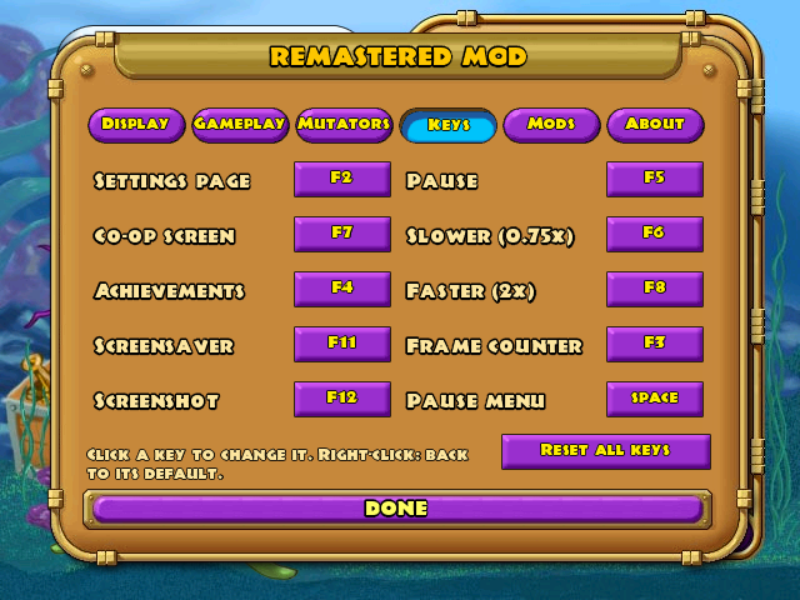
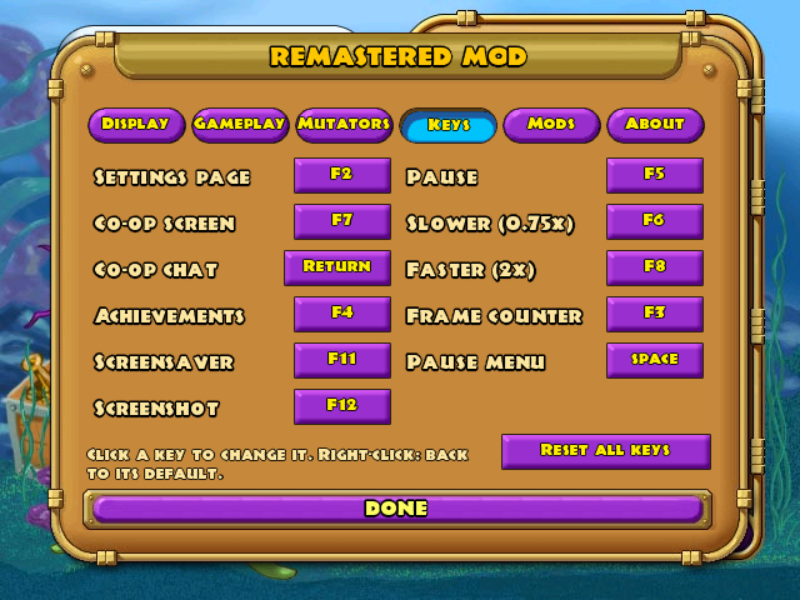
0.2.0: Keys tab (every key, defaults, the pause dialog's key), window choices with the game's cursor, co-op chat in the lobby with fading lines, screensaver in a window, Steam save folder, one lobby listing per account; server modules cleanup.lua and chatlog.lua; docs and screenshots

Changed region(s): [[0.3438, 0.24, 0.9062, 0.72], [0.0938, 0.36, 0.3125, 0.72], [0.0938, 0.27, 0.3125, 0.33]]

diff --git a/mods/coop/coop.cpp b/mods/coop/coop.cpp
@@ -101,6 +101,7 @@ static int startShells = -1;                  // a guest: the shells of the host
 struct ChatLine { std::string text; unsigned color; DWORD at; };
 static std::deque<ChatLine> chat;
 static bool chatting;
+static bool screen, editing;   // the co-op screen is open; one of its text boxes is being typed in
 static std::string chatBuf;
 struct Mark { int slot, x, y; DWORD at; };
 static std::vector<Mark> marks;
@@ -840,17 +841,24 @@ static bool LocalKey(int vk) { return vk == api->config_int("screenshot", "key",
 
 static int InputFilter(unsigned msg, unsigned wp, long lp)
 {
-    if (state != Playing) return 0;
-    // chat: Enter opens a line, Enter sends it, Esc drops it; while typing, keys don't go to the game
+    if (state != Playing && !(state == Lobby && screen && !editing)) return 0;   // chat works in the lobby too
+    // chat: the chat key (Enter; the Keys tab) opens a line, Enter sends it, Esc drops it; while typing, keys don't go
+    // to the game
+    static bool skipChar;   // the character the chat key itself types (a letter key) isn't part of the line
     if (chatting)
     {
+        if (msg == WM_CHAR && skipChar) { skipChar = false; return 1; }
         if (msg == WM_KEYDOWN && wp == VK_RETURN) { chatting = false; SendChat(chatBuf); chatBuf.clear(); api->redraw(); }
         else if (msg == WM_KEYDOWN && wp == VK_ESCAPE) { chatting = false; chatBuf.clear(); api->redraw(); }
         else if (msg == WM_KEYDOWN && wp == VK_BACK) { if (!chatBuf.empty()) chatBuf.pop_back(); api->redraw(); }
         else if (msg == WM_CHAR && wp >= 32 && wp < 127 && chatBuf.size() < 80) { chatBuf += (char)wp; api->redraw(); }
         if (msg >= WM_KEYFIRST && msg <= WM_KEYLAST) return 1;
     }
-    else if (msg == WM_KEYDOWN && wp == VK_RETURN) { chatting = true; chatBuf.clear(); api->redraw(); return 1; }
+    else if (msg == WM_KEYDOWN && (int)wp == api->config_int("coop", "chat_key", VK_RETURN) && wp)
+    {
+        chatting = true; chatBuf.clear(); skipChar = wp != VK_RETURN; api->redraw(); return 1;
+    }
+    if (state != Playing) return 0;   // the rest is the game's input, in a game
     // a ping: middle click shows a ring where you point, for everyone (display only)
     if (msg == WM_MBUTTONDOWN)
     {
@@ -1546,7 +1554,6 @@ extern "C" __declspec(dllexport) int CoopPlaying() { return state == Playing ? 1
 
 // ---- the lobby screen ------------------------------------------------------------------------------------------------------
 static const int DialogId = 0x4e, DX = 30, DY = 20, DW = 580, DH = 440, CX = DX + 40, CW = DW - 80;
-static bool screen, editing;
 static std::string* editField;   // the box being typed into (the address, or a server setting)
 // the server settings view (Online tab): edited here, saved on Test and Done
 static bool serverView, srvTls;
@@ -1776,6 +1783,36 @@ static int Key(int vk, int down)
     return 1;
 }
 
+// chat lines: each shows for 10 s and fades out over the last 2 (all of them while typing); in a game at the bottom left,
+// newest at the bottom, in the lobby at the top (its panel fills the bottom), newest at the top
+static void DrawChat(void* g, bool top)
+{
+    void* f10 = ui::Font(FONT_JUNGLEFEVER10OUTLINE);
+    DWORD now = GetTickCount();
+    int y = top ? 18 : 446, step = top ? 20 : -20;
+    bool visible = false;
+    if (chatting)
+    {
+        std::string t = "Say: " + chatBuf + ((now / 400) % 2 ? "_" : "");
+        api->fill_rect(g, 6, y - 14, api->text_width_font(f10, t.c_str()) + 10, 18, 0xb0000000);
+        api->draw_text_font(g, f10, t.c_str(), 11, y, 0xffffffff);
+        y += step;
+        visible = true;
+    }
+    for (int i = (int)chat.size() - 1; i >= 0; i--)
+    {
+        DWORD age = now - chat[i].at;
+        if (age > 10000 && !chatting) continue;
+        unsigned a = chatting || age < 8000 ? 255 : (unsigned)(255 * (10000 - age) / 2000);
+        unsigned box = ((0x90 * a / 255) << 24), text = (a << 24) | (chat[i].color & 0xffffff);
+        api->fill_rect(g, 6, y - 14, api->text_width_font(f10, chat[i].text.c_str()) + 10, 18, box);
+        api->draw_text_font(g, f10, chat[i].text.c_str(), 11, y, text);
+        y += step;
+        visible = true;
+    }
+    if (visible && top) api->redraw();   // the lobby only repaints when something changes: keep the fade going
+}
+
 static void Overlay(void* g)
 {
     void* f12 = ui::Font(FONT_JUNGLEFEVER12OUTLINE), *f10 = ui::Font(FONT_JUNGLEFEVER10OUTLINE);
@@ -1842,22 +1879,7 @@ static void Overlay(void* g)
                     const char* t = rescueFish == f ? "SOS 1/2" : "SOS";
                     api->draw_text_font(g, f10, t, cx - api->text_width_font(f10, t) / 2, cy, (now / 250) % 2 ? 0xffff4040 : 0xffffd0d0);
                 }
-        // chat
-        int y = 446;
-        if (chatting)
-        {
-            std::string t = "Say: " + chatBuf + ((now / 400) % 2 ? "_" : "");
-            api->fill_rect(g, 6, y - 14, api->text_width_font(f10, t.c_str()) + 10, 18, 0xb0000000);
-            api->draw_text_font(g, f10, t.c_str(), 11, y, 0xffffffff);
-            y -= 20;
-        }
-        for (int i = (int)chat.size() - 1; i >= 0; i--)
-        {
-            if (now - chat[i].at > 10000 && !chatting) continue;
-            api->fill_rect(g, 6, y - 14, api->text_width_font(f10, chat[i].text.c_str()) + 10, 18, 0x90000000);
-            api->draw_text_font(g, f10, chat[i].text.c_str(), 11, y, chat[i].color);
-            y -= 20;
-        }
+        DrawChat(g, false);
         return;
     }
     if (reopenScreen && state == Lobby && ui::OnMainMenu(api) && ui::DialogCount(api) == 0) { reopenScreen = false; OpenScreen(); }
@@ -1973,6 +1995,7 @@ static void Overlay(void* g)
         else ui::FitText(api, g, f10, "The host picks the game and starts it.", CX, DY + 314, CW, ui::Cream);
     }
     ui::FitText(api, g, f10, status, CX, DY + DH - 82, CW, ui::White);
+    if (state == Lobby) { api->set_input_filter(InputFilter); DrawChat(g, true); }   // the filter takes the chat key in the lobby too
     ui::DrawTooltip(api, g);
 }
 

diff --git a/mods/settings/settings.cpp b/mods/settings/settings.cpp
@@ -86,6 +86,7 @@ static void Build()
     tabs[KeysTab] = {
         { "Settings page", "settings", "open_key", "Opens these settings, anywhere.", {}, "113", false },
         { "Co-op screen", "coop", "open_key", "Opens the co-op screen on the main menu.", {}, "118", false },
+        { "Co-op chat", "coop", "chat_key", "In a co-op game or its lobby: opens a chat line (Enter sends it, Esc drops it). Only the players in that game see it.", {}, "13", false },
         { "Achievements", "achievements", "open_key", "Opens the list of achievements.", {}, "115", false },
         { "Screensaver", "screensaver", "key", "Starts the screensaver on the main menu.", {}, "122", false },
         { "Screenshot", "screenshot", "key", "Saves a screenshot in the game folder's screenshots folder.", {}, "123", false },
@@ -130,6 +131,11 @@ static RECT RowRect(int t, int i)
     {
         int rows = ModRows(), h = ModRowH(), w = CW / ModCols(), x = CX + (i / rows) * w, y = TabY + 36 + (i % rows) * h;
         return { x, y, x + w - 6, y + h };
+    }
+    if (t == KeysTab)   // two columns of six, a little shorter (the reset button goes under them)
+    {
+        int w = CW / 2, x = CX + (i / 6) * w, y = TabY + 36 + (i % 6) * 37;
+        return { x, y, x + w - 6, y + 37 };
     }
     int cols = Columns(t), col = i / 5, row = i % 5;
     if (cols == 1) { col = 0; row = i; }
@@ -367,7 +373,7 @@ static void DrawSettings(void* g)
         if (over) help = it.help;
         std::string v = Get(it);
         int rh = r.bottom - r.top;
-        int tx = r.left + 6, labelY = tab == ModsTab ? r.top + (rh >= 40 ? 22 : rh / 2 - 1) : r.top + 28, right = r.right;
+        int tx = r.left + 6, labelY = tab == ModsTab ? r.top + (rh >= 40 ? 22 : rh / 2 - 1) : tab == KeysTab ? r.top + 25 : r.top + 28, right = r.right;
         if (tab == KeysTab)
         {
             int vk = atoi(v.c_str());
@@ -376,6 +382,7 @@ static void DrawSettings(void* g)
                 if (j != i && vk && atoi(Get(tabs[KeysTab][j]).c_str()) == vk) clash = true;
             std::string shown = capturing == (int)i ? "Press a key..." : ui::KeyName(vk);
             RECT vr = ValueRect(r, shown.c_str());
+            OffsetRect(&vr, 0, -3);   // the Keys tab's rows are shorter
             ui::Button(api, g, vr, shown.c_str(), ui::Look::Center, true, capturing == (int)i);
             if (clash && capturing != (int)i) { api->draw_text_font(g, f10, "!", vr.left - 12, vr.top + 19, 0xffff6060); if (over) help = "This key is also used by another row: pick a different one."; }
             right = vr.left - 14;

diff --git a/include/version.h b/include/version.h
@@ -2,12 +2,27 @@
 // release page). Newest first, short lines (about 50 characters);
 // bump REMOD_VERSION with each release (DEVELOPING.md, Releasing).
 #pragma once
-#define REMOD_VERSION "0.1.0"
+#define REMOD_VERSION "0.2.0"
 #define REMOD_WIDEN2(x) L##x
 #define REMOD_WIDEN(x) REMOD_WIDEN2(x)
 #define REMOD_VERSION_W REMOD_WIDEN(REMOD_VERSION)
 
 static const struct { const char* version; const char* lines[16]; } RemodChangelog[] = {
+    { "0.2.0", {
+        "Keys tab: change every key, reset to defaults.",
+        "  Space's pause dialog can move to another key.",
+        "Window: 640x480 by default (also on Steam),",
+        "  or large, borderless or fullscreen, with",
+        "  the game's own cursor at the right size.",
+        "Co-op chat in the lobby too; lines fade out.",
+        "Screensaver runs in a window: no more closing",
+        "  at once on Linux, the game waits and returns.",
+        "Steam: saves backed up from the right folder,",
+        "  achievements and records kept beside them.",
+        "Co-op: no more \"too many lobbies\" errors.",
+        "The start-up banner no longer covers",
+        "  \"Click here to play!\".",
+        nullptr } },
     { "0.1.0", {
         "First release.",
         "Remastered page on the main menu; settings: F2.",

diff --git a/README.md b/README.md
@@ -59,7 +59,7 @@ Step by step for Windows, Linux and Steam Deck: **[docs/INSTALL.md](docs/INSTALL
 | **continues** | When all your fish die, spend shells to get two guppies and keep going: 500 shells, then 1,000, 1,500... until you return to the main menu. Only offered when you have the shells | none |
 | **accessibility** | A red **!** over hungry fish, and each coin's value under it (no need to tell silver, gold and gems apart by colour) | none |
 | **achievements** | 31 achievements (coins, aliens, levels, pets, modes...) with shell rewards paid on the main menu; a banner when one unlocks; the list from **Achievements** on the Remastered page. Progress is saved per profile next to your saves | **F4** list |
-| **coop** | Co-op for 2-4 players over the network: **Co-op** on the Remastered page (or F7), one player hosts and the others join: **Online** through the mod's public server (a listed game, or a private one joined by its room code; no ports to open, nothing to set up), through **Steam**, by address, or through **your own server** (docs/SERVER.md). Everyone plays the host's profile (your own saves are never touched; shells you earn come home with you). Roles (Feeder, Gunner, Collector, Shopper), chat (Enter), pings (middle click), rescue a starving fish together, tougher tanks for more players (host's choice), an avatar on your pointer (a pet or fish portrait), **split money** (host's choice: everyone has their own money; coins pay whoever clicked them), join a game that has already started (while there's room), and **Versus** (host's choice: the first player to join steers the aliens with the pointer, click to dash, and tries to eat every fish). The host is in charge: only the host pauses, changes the speed, opens the menu or answers dialogs. Everyone needs the same mods | **F7**, Enter, middle click |
+| **coop** | Co-op for 2-4 players over the network: **Co-op** on the Remastered page (or F7), one player hosts and the others join: **Online** through the mod's public server (a listed game, or a private one joined by its room code; no ports to open, nothing to set up), through **Steam**, by address, or through **your own server** (docs/SERVER.md). Everyone plays the host's profile (your own saves are never touched; shells you earn come home with you). Roles (Feeder, Gunner, Collector, Shopper), chat (Enter, in the game and the lobby; lines fade after 10 s), pings (middle click), rescue a starving fish together, tougher tanks for more players (host's choice), an avatar on your pointer (a pet or fish portrait), **split money** (host's choice: everyone has their own money; coins pay whoever clicked them), join a game that has already started (while there's room), and **Versus** (host's choice: the first player to join steers the aliens with the pointer, click to dash, and tries to eat every fish). The host is in charge: only the host pauses, changes the speed, opens the menu or answers dialogs. Everyone needs the same mods | **F7**, Enter, middle click |
 | **mutators** | 15 optional rule changes for Adventure, Time Trial and Challenge, switched on one by one in the settings: hungry fish, double trouble (aliens come in twins), glass cannon, no pets, pacifist, heavy coins, tiny wallet ($2,500 cap), rich start ($1,000), hard mode, golden guppies, coin combos, tank events (feeding frenzy, lights out, currents), overeating, decay (corpses float until clicked away), gadgets (buy an auto-feeder, coin magnet and alien alarm) | none |
 | **fps** | A frame counter in the top-left corner | **F3** |
 | **screenshot** | Saves the game window as a PNG in the game folder's `screenshots` folder | **F12** |
@@ -84,6 +84,7 @@ red **!**.
 | **F12** | a screenshot | anywhere |
 | **F5** / **F6** / **F8** | pause / 0.75x / 2x (again: back to normal) | in a tank; in co-op only the host, for everyone |
 | **F3** | the frame counter | anywhere |
+| **Enter** | a chat line (Enter sends it, Esc drops it; only the players in that game see it; lines fade after 10 s) | in a co-op game or its lobby |
 | **Space** | the game's own pause dialog (moved to another key there, Space stops opening it) | in a tank |
 
 Built into Insaniquarium - Remastered Mod itself:
@@ -180,6 +181,7 @@ enabled=1          ; 0 = click coins as usual
 
 [coop]
 open_key=118       ; F7 on the main menu
+chat_key=13        ; Enter in a co-op game or lobby: a chat line
 port=27615         ; the TCP port the host listens on (open it in your router to host over the internet)
 name=              ; your name in co-op (empty = your profile's name)
 avatar=1           ; your avatar in co-op: 0 none, 1 guppy, 2-31 the pets and special fish (or the Avatar button)
@@ -236,7 +238,10 @@ Everything Insaniquarium - Remastered Mod does is written to **`mods/remastered-
 - Insaniquarium - Remastered Mod only uses the network for co-op, and only once you host or join a game (direct
   connections to the address you typed, Steam's lobbies and relay, or the co-op server: the mod's public one unless you
   set your own; it sees an anonymous id made by your game, the room codes and the game's messages). Nothing else goes online:
-  no updates, no statistics.
+  no updates, no statistics. Your profiles, achievements and records never leave your computer. A co-op server keeps
+  only that anonymous account (servers may remove old ones; the game makes a new one by itself) and, while you host a
+  listed game, its listing. A server may log co-op chat lines for moderation, and like any web server it sees your IP
+  address.
 - Some antivirus programs distrust DLLs that change how a game behaves; that's a false alarm, but you can build it
   from source yourself (see DEVELOPING.md), and every release is built by GitHub Actions from the tagged commit
   (reproducible: the same commit gives the same zip, checksums on the release page).

diff --git a/docs/SERVER.md b/docs/SERVER.md
@@ -146,6 +146,21 @@ The module is a Lua file in `server/modules/` (mounted at `/nakama/data/modules`
   then `docker compose pull && docker compose up -d`. The database is migrated at start.
 - **Backups:** optional. The database only holds anonymous accounts and the lobby list. Nothing is lost if it's
   reset: `docker compose down -v` wipes it, and the next start makes a fresh one.
+- **Tidying up (optional):** nothing a player keeps lives on the server (profiles, achievements and records stay on
+  their computer), so old accounts can go. With `modules/cleanup.lua` in place, run this on the server once a day
+  (cron: `0 5 * * *`); it removes accounts created more than 30 days ago and listings left behind for a day:
+  ```sh
+  curl -s -X POST "http://127.0.0.1:7350/v2/rpc/remod_cleanup?http_key=$NAKAMA_HTTP_KEY&unwrap" -d '{"days":30}'
+  # {"accounts_failed":0,"accounts_removed":12,"days":30,"listings_removed":0}
+  ```
+  A game whose account is gone makes a new one the next time it logs in; a player online at that moment is reconnected
+  as a new account and rejoins its game (hence a quiet hour). Players' sessions can't call it.
+- **Chat log (optional):** the game's chat goes player to player inside the match, so the server stores none of it.
+  With `modules/chatlog.lua` in place, each line is written to Nakama's log for moderation (room, account, username,
+  text; `docker compose logs nakama | grep remod_chat`). It hooks every match message (`MatchDataSend`), changes
+  nothing and costs little; Nakama allows one such hook, so don't load another module that hooks `MatchDataSend`.
+  The sender's IP is off (`LOG_IP` in the file): your HTTPS proxy's access log already has addresses, and blocking one
+  is done there (a banned account can always make a new one). Tell your players if you log chat.
 - **Changing the server key:** edit `.env`, `docker compose up -d`, and give players the new key. Games with the old
   key can no longer log in.
 

diff --git a/server/modules/README.md b/server/modules/README.md
@@ -10,6 +10,13 @@ tidy:
 - **text filter:** lobby strings with profanity or links are stored as `***`, bad usernames at login are replaced,
   `PUT /v2/account` refuses bad usernames and avatar URLs.
 
+`chatlog.lua` (included, optional) writes every co-op chat line to Nakama's log (`remod_chat`) for moderation; it hooks
+`MatchDataSend`, so no other loaded module may hook that message. See *Running it* in the server guide.
+
+`cleanup.lua` (included) adds `remod_cleanup`, an RPC for the server's owner that removes accounts older than a number of
+days and listings left behind: see *Running it* in [../../docs/SERVER.md](../../docs/SERVER.md). It registers no hooks,
+so it works next to `wordfilter.lua`.
+
 `wordfilter.lua` is the public server's module (its word lists and the hooks above). Put it here and restart the
 server (`docker compose up -d --force-recreate nakama`); the log then says it was loaded. Without it the server works
 the same, just without these rules: fine for a group of friends.

diff --git a/docs/INSTALL.md b/docs/INSTALL.md
@@ -91,6 +91,9 @@ and start it again.
 - **Playing without mods for once:** hold **Shift** while the game starts.
 
 ### Co-op
+- **In a game and its lobby:** **Enter** opens a chat line that only the players in that game see (Enter sends, Esc
+  drops; lines fade after 10 seconds; the key can be changed on the Keys tab); a **middle click** shows everyone where you point. Only the host changes the speed and
+  the rules (mutators): the guests' games follow.
 - **Online (the default):** nothing to set up. The co-op screen's **Online** tab uses the mod's public server: host a
   listed or private game, or join one from the list or with its room code.
 - **Over Steam:** needs Valve's `steam_api.dll`. Usually nothing to do: the mod borrows a copy another Steam game of
